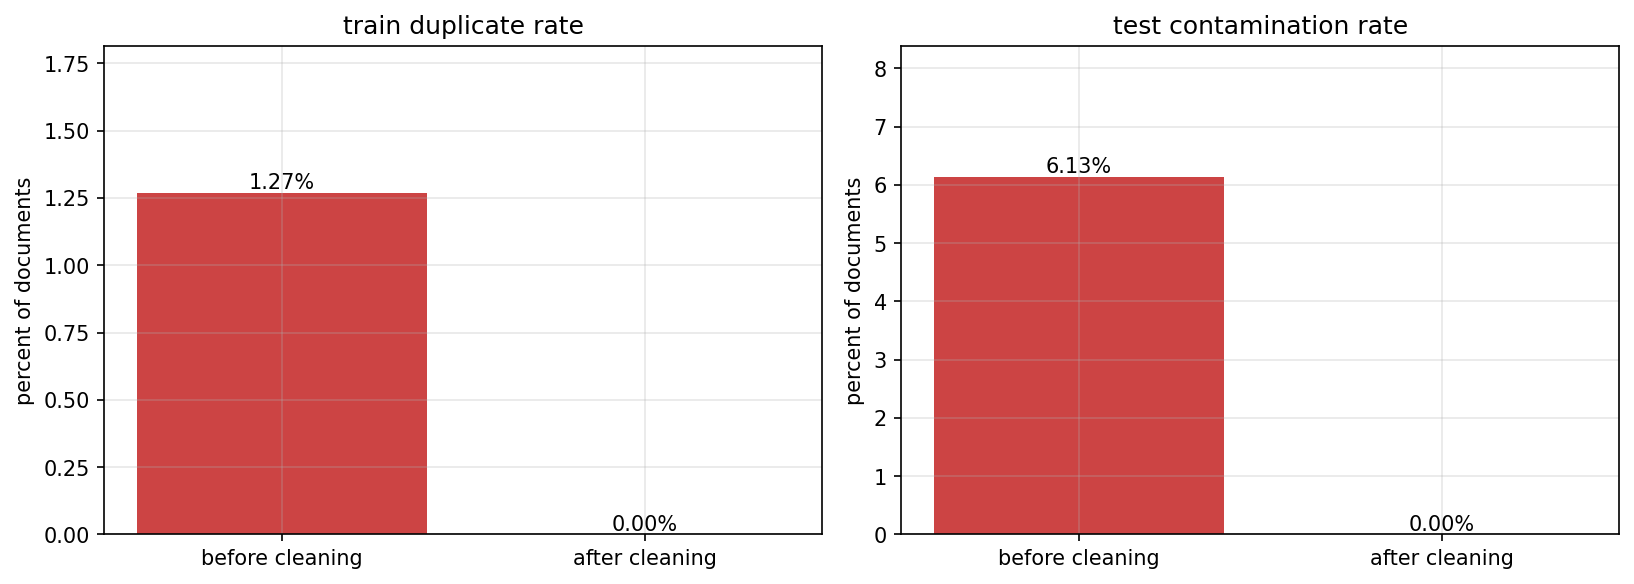
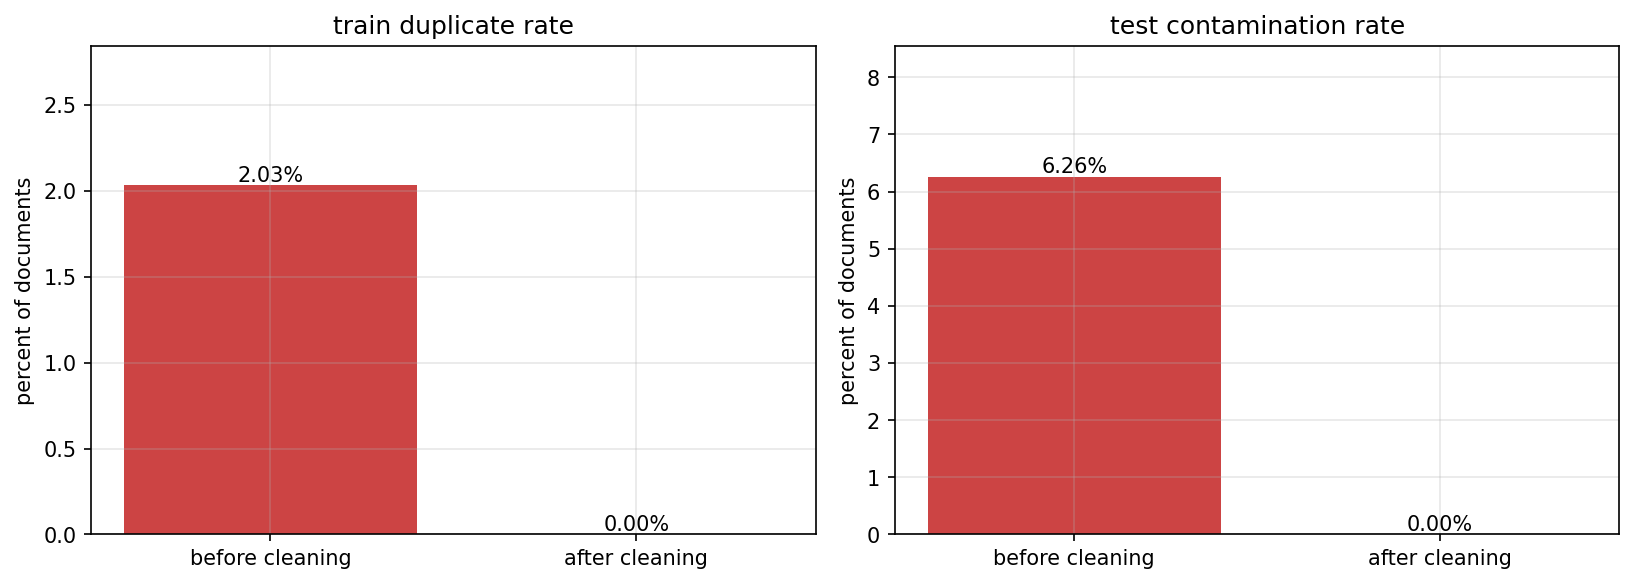
w01: wire MinHash near-dup layer into audit, refresh deliverables
- near_dup recall 0% -> 66.7%; light/medium 12/12 each, heavy 0/12 (containment 0.68-0.76 below 0.8 threshold, logged as failure-analysis lead)

- leak_near 14/15 -> 15/15 with near layer complementing substring layer

- data card regenerated; add lsh_sweep.csv and refresh fig5-fig7

diff --git a/01_toy_bpe_data_audit/outputs/data_card.md b/01_toy_bpe_data_audit/outputs/data_card.md
@@ -1,6 +1,6 @@
 # 数据卡 · Toy BPE + Data Audit（LLM Atlas V3 · 第 1 周）
 
-- 生成日期：2026-11-13
+- 生成日期：2026-11-18
 - 用途：Tokenizer 对照实验与数据去重/污染检测的教学语料，**不用于训练发布模型**
 - 随机种子：语料 20261112／夹具 20261112／审计 0
 - 复现：`python -m src.prepare_data && python -m src.inject_fixtures && python -m src.run_experiments`
@@ -85,36 +85,36 @@
 ## 5. 去重与污染检测
 
 - 近重复：MinHash num_perm=128, k=5, mode=char, bands=32, rows=4, threshold=0.8
-- 近重复阶段状态：**not_implemented**
+- 近重复阶段状态：**ok**
 - 子串泄漏：每篇 test 取 5 个 100 字符探针，在 train 全文中查找
-- 检出（各层有重叠）：exact 60 篇，near 0 篇，substring 50 篇，跨划分 near 对 0
+- 检出（各层有重叠）：exact 60 篇，near 101 篇，substring 50 篇，跨划分 near 对 37
 
 ## 6. 清洗前后
 
 | 指标 | 清洗前 | 清洗后 |
 |---|---|---|
-| train 文档数 | 3150 | 3110 |
-| test 文档数 | 815 | 765 |
-| train 重复率 | 1.27% | 0.00% |
-| test 污染率 | 6.13% | 0.00% |
-| train 字节 | 3977357 | 3927285 |
+| train 文档数 | 3150 | 3086 |
+| test 文档数 | 815 | 764 |
+| train 重复率 | 2.03% | 0.00% |
+| test 污染率 | 6.26% | 0.00% |
+| train 字节 | 3977357 | 3898472 |
 
 ## 7. 验收得分（对照 ground truth）
 
 | 夹具类型 | 应有 | 检出 | 召回 / 误报 |
 |---|---|---|---|
 | exact_dup_train | 40 | 40 | 100.0% |
-| near_dup_train | 36 | 0 | 0.0% |
+| near_dup_train | 36 | 24 | 66.7% |
 | boilerplate_trap | 12 | 0 | 误报数（越低越好） |
 | leak_exact | 20 | 20 | 100.0% |
-| leak_near | 15 | 14 | 93.3% |
+| leak_near | 15 | 15 | 100.0% |
 | leak_span | 15 | 15 | 100.0% |
 
 近重复按扰动强度：
 | 强度 | 应有 | 检出 | 召回 |
 |---|---|---|---|
-| light | 12 | 0 | 0.0% |
-| medium | 12 | 0 | 0.0% |
+| light | 12 | 12 | 100.0% |
+| medium | 12 | 12 | 100.0% |
 | heavy | 12 | 0 | 0.0% |
 
 - 对照组误报：0 / 30

diff --git a/01_toy_bpe_data_audit/README.md b/01_toy_bpe_data_audit/README.md
@@ -71,18 +71,18 @@ jupyter lab notebooks/tokenizer_demo.ipynb   # 或 VS Code / Qoder 直接打开
 | 6 | 夹具相似度分布 | 注入类型 / 随机负样本对 | char-5 shingle | oracle Jaccard 直方图 | fig8 |
 | 7 | 预分词消融（你写 BPE 后） | 有无 `</w>`、中文按字/按词 | num_merges 固定 | 长度分布 + round-trip + UNK | 自行加 cell |
 
-## 验收清单（当前实测，基线层）
+## 验收清单（当前实测）
 
-- [x] 语料 4.83MB / 3827 docs（train 3062 / test 765），注入后 3965 docs
-- [x] 长度分布：char / word / HF-BPE×2 已产出；toy-BPE 待你实现后自动加入
+- [x] 语料 ~4.8MB / 3850 docs（train 3086 / test 764），注入后 3965 docs（3150 / 815）
+- [x] 长度分布：char / word / toy-BPE×4 / HF-BPE×2 全部产出（`metrics.csv`）
+- [x] toy-BPE round-trip = 1.0（500/1000/2000/4000 merges 全为 1.0）
 - [x] exact_dup_train 召回 40/40 = 100%
-- [x] leak_exact 召回 20/20 = 100%；leak_span 召回 15/15 = 100%（子串层）
-- [x] leak_near 召回 14/15 = 93.3%（仅子串层；MinHash 层应补到 100%）
-- [x] train 重复率 1.27% → 0.00%；test 污染率 6.13% → 0.00%
+- [x] leak_exact 20/20；leak_near 15/15；leak_span 15/15（子串层 + near 层互补）
+- [x] near_dup light 12/12、medium 12/12；heavy 0/12（containment 0.682–0.764，被 0.8 阈值拒，见失败分析线索 5）
+- [x] train 重复率 2.03% → 0.00%；test 污染率 6.26% → 0.00%
 - [x] boilerplate 陷阱误报 0/12；对照组误报 0/30
-- [ ] near_dup light/medium 召回 ≥ 90% ← **等你的 MinHash**
-- [ ] toy-BPE 进入对照表、round-trip = 1.0 ← **等你的 BPE**
-- [ ] `notes/failure_analysis.md` 与「我的问题」填写完成
+- [ ] 子串层 1 个误报：`zh_孔乙己_00002` 命中维基文库版权模板（已知，未修）
+- [ ] `notes/failure_analysis.md` 线索 6 与「我的问题」待填
 
 ## 已经能看到的三个现象（先自己解释，再写进失败分析）
 
